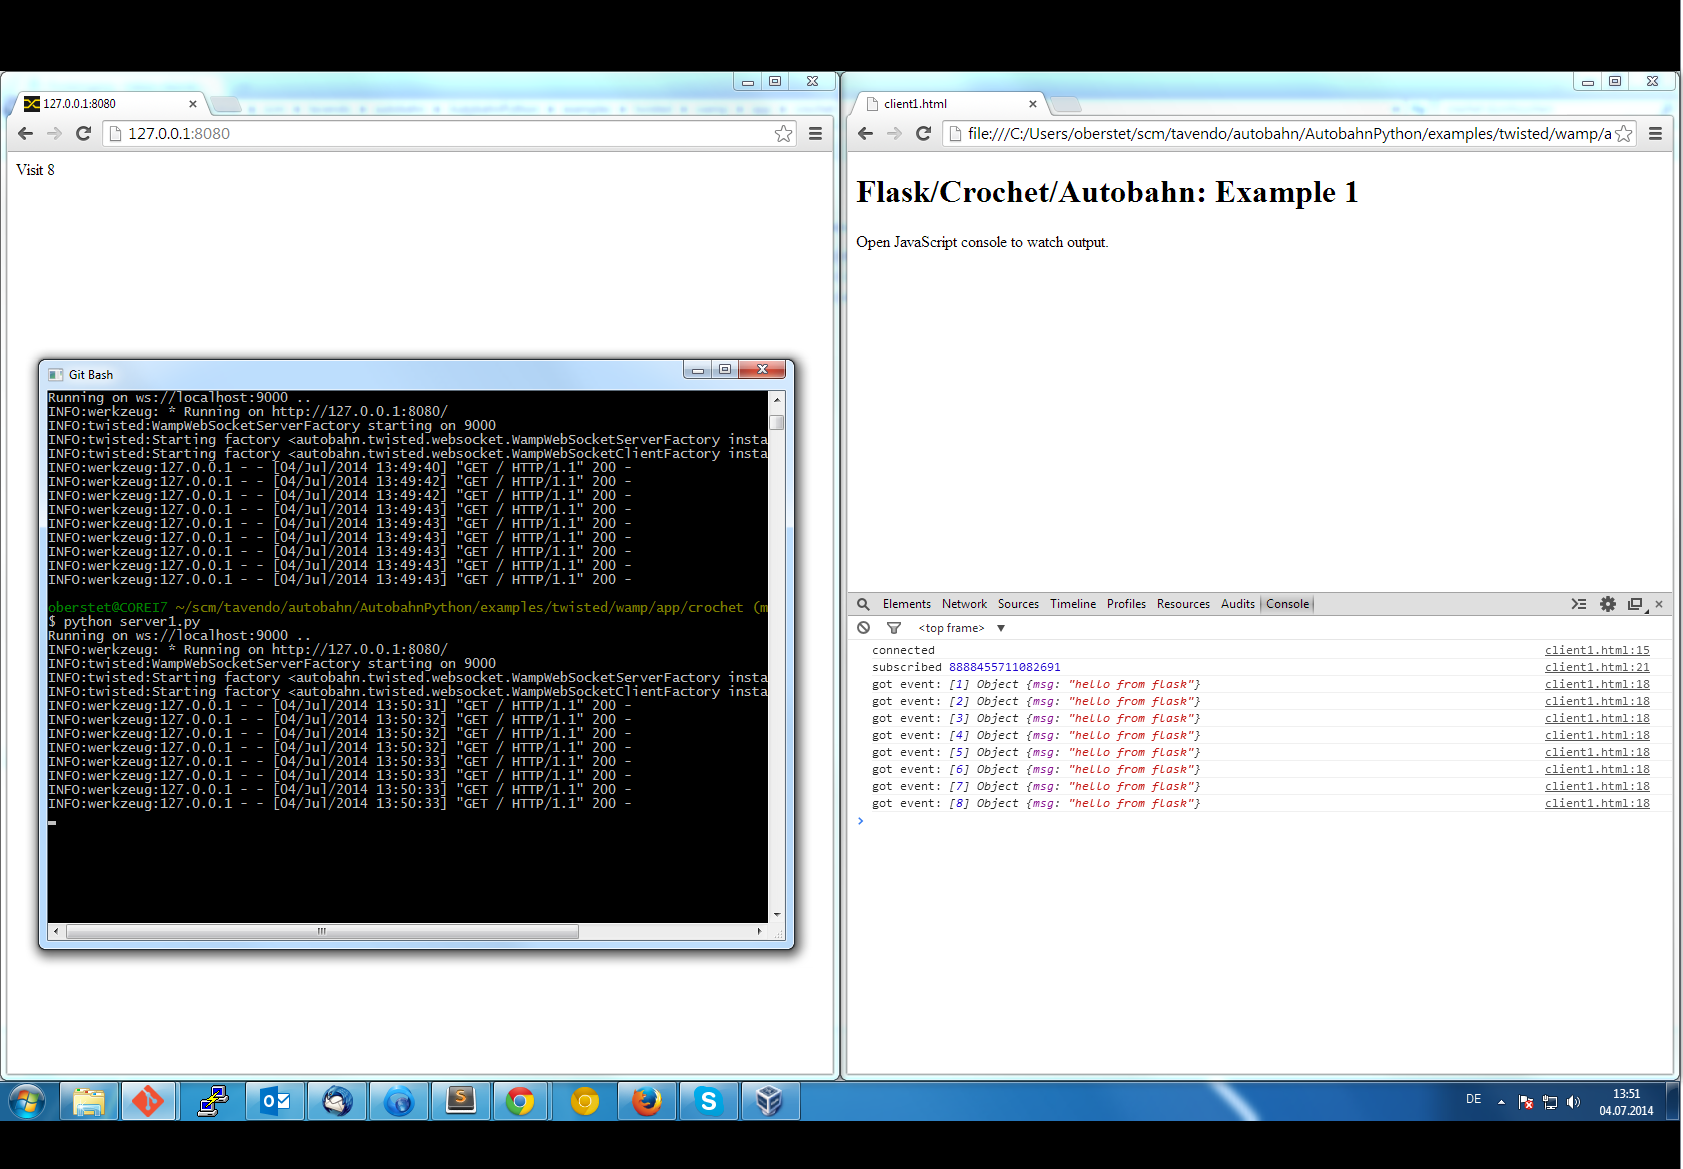
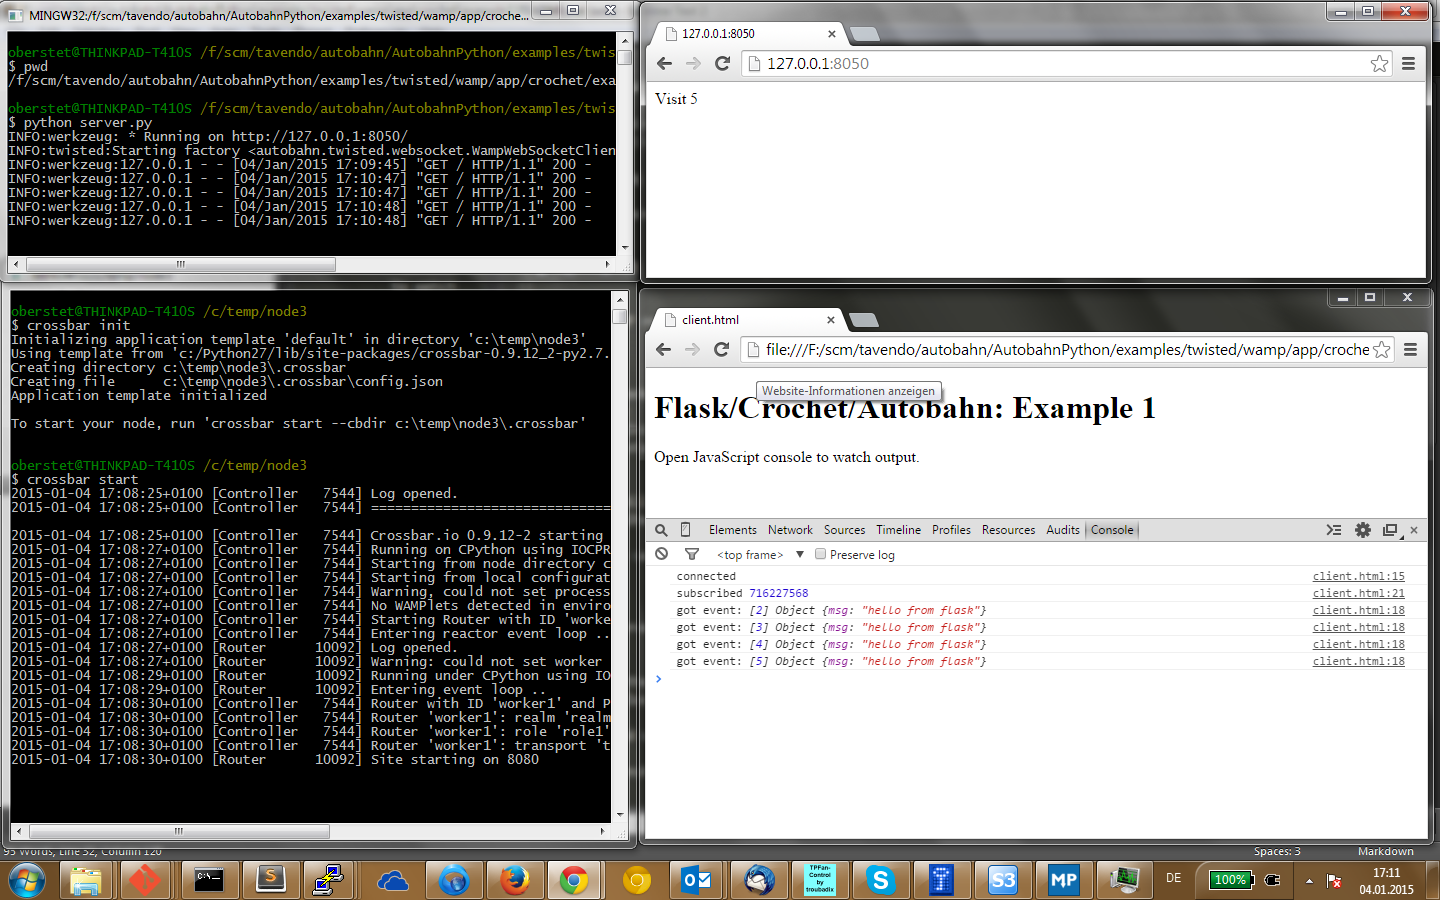
fix Crochet example 1

diff --git a/examples/twisted/wamp/app/crochet/example1/client.html b/examples/twisted/wamp/app/crochet/example1/client.html
@@ -6,7 +6,7 @@
       <script src="https://autobahn.s3.amazonaws.com/autobahnjs/latest/autobahn.min.jgz"></script>
       <script>
          var connection = new autobahn.Connection({
-            url: "ws://127.0.0.1:9000",
+            url: "ws://127.0.0.1:8080/ws",
             realm: 'realm1'
          });
 

diff --git a/examples/twisted/wamp/app/crochet/example1/server.py b/examples/twisted/wamp/app/crochet/example1/server.py
@@ -1,6 +1,6 @@
 ###############################################################################
 ##
-##  Copyright (C) 2014 Tavendo GmbH
+##  Copyright (C) 2014-2015 Tavendo GmbH
 ##
 ##  Licensed under the Apache License, Version 2.0 (the "License");
 ##  you may not use this file except in compliance with the License.
@@ -61,10 +61,10 @@ if __name__ == '__main__':
    ##
    @run_in_reactor
    def start_wamp():
-      wapp.run("ws://localhost:9000", "realm1", standalone = True, start_reactor = False)
+      wapp.run("ws://127.0.0.1:8080/ws", "realm1", start_reactor = False)
 
    start_wamp()
 
    ## now start the Flask dev server (which is a regular blocking WSGI server)
    ##
-   app.run(port = 8080)
+   app.run(port = 8050)

diff --git a/examples/twisted/wamp/app/crochet/example1/README.md b/examples/twisted/wamp/app/crochet/example1/README.md
@@ -4,20 +4,32 @@ This example demonstrates combining a Flask Web application with Autobahn WAMP c
 
 ### Running the Example
 
-Install dependencies:
+Install example dependencies:
 
 ```shell
 pip install flask autobahn[twisted] crochet
 ```
 
-Start the server: 
+Run a WAMP router, e.g. Crossbar.io
+
+```
+cd $HOME
+mkdir mynode
+cd mynode
+crossbar init
+crossbar start
+```
+
+> Above will start Crossbar.io with a WAMP-over-WebSocket transport listening on `ws://localhost:8080/ws` and a realm `realm1`.
+
+Start the server-side component:
 
 
 ```shell
 python server.py
 ```
 
-Now open the WAMP Web client `client.html` in your browser, and then visit [http://localhost:8080](http://localhost:8080), reloading a couple of times.
+Now open the WAMP Web client `client.html` in your browser, and then visit [http://localhost:8050](http://localhost:8050), reloading a couple of times.
 
 You should see the Web client be notified in real-time of the new page visit count:
 
